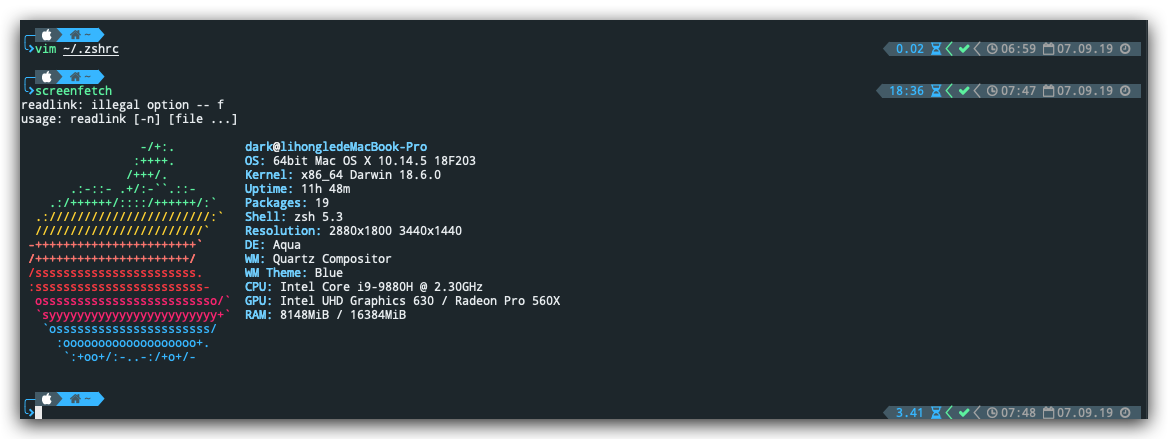
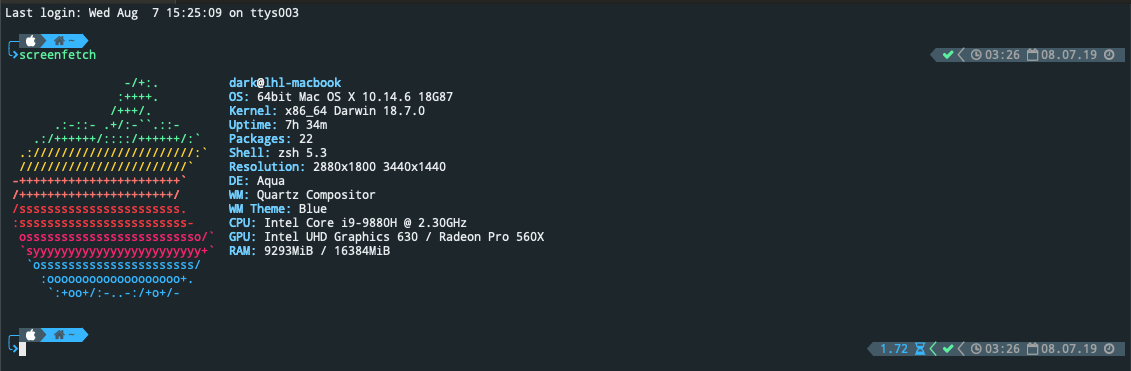
docs:Mac安装zsh

Changed region(s): [[0.0, 0.0, 1.0, 1.0]]

diff --git a/操作系统/MacOS/软件安装/02-Mac安装zsh.md b/操作系统/MacOS/软件安装/02-Mac安装zsh.md
@@ -171,4 +171,19 @@
     source $HOME/.bash_profile
     ```
 
+    ```命令
+    brew install screenfetch
+    brew install coreutils
+    ```
+
+    ```命令
+    vim ~/.bash_profile
+    ```
+
+    ```内容
+    # 在配置末增加
+    export PATH="/usr/local/opt/coreutils/libexec/gnubin:$PATH"
+    alias readlink=greadlink
+    ```
+    
     ![效果图](images/02_3_e_1.png)<br>    
